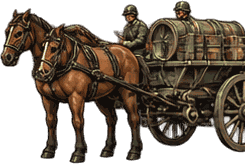
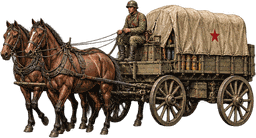
Illustrazioni dalla seconda tavola dell'utente; Panzerwerfer 42 su Maultier
- Sovietici: cavalleria, genio, semicingolato, carro munizioni ippotrainato,
  ambulanza (al posto delle ricolorazioni).
- Lanciarazzi per nazione: Nebelwerfer 41 (Germania) e T34 Calliope (USA).
- Nuovo modello ART-DEU-PZW42 (Panzerwerfer 42 su Sd.Kfz. 4/1, dal 4/1943,
  richiede artiglieria a razzi e semicingolati) e Panzerwerfer-Abteilung;
  illustrazione provvisoria: il Nebelwerfer trainato.
1374/1374 test, validatore, compilazione e prova in Chrome OK.

Claude-Session: https://claude.ai/code/session_014d4HiM3afacYLzYLN6w6N3

diff --git a/src/rules/unitSheet.js b/src/rules/unitSheet.js
@@ -69,7 +69,7 @@ export const EQUIPMENT_GROUP = Object.freeze({
   'VEH-DEU-KRAD': 'veicoli', 'VEH-DEU-SDKFZ222': 'veicoli', 'ART-DEU-FLAK88': 'artiglieria', 'ART-DEU-GEBG36': 'artiglieria', // battaglioni del 19/11/2026
   'INW-USSR-PISTOL-TT33': 'individuali', 'INW-USSR-SMG-PPD': 'individuali', 'INW-USSR-SMG-PPSH41': 'individuali', 'ART-USSR-MOR50': 'mortai', 'ART-USSR-MOR82': 'mortai', 'ART-USSR-MOR120': 'mortai', // battaglioni sovietici (19/11/2026)
   'ART-USSR-GUN76-REGT': 'artiglieria', 'ART-USSR-AA37': 'contraerea', 'ART-USSR-AA76': 'contraerea', 'VEH-USSR-GAZAA': 'veicoli', 'VEH-USSR-ZIS5': 'veicoli', 'VEH-USSR-MOTO': 'veicoli', 'VEH-USSR-BA10': 'veicoli',
-  'ART-USSR-PTRD': 'anticarro', 'ART-USSR-BM13': 'artiglieria', 'ART-DEU-NBW41': 'artiglieria', 'ART-USA-CALLIOPE': 'artiglieria', 'ART-USSR-MOR107': 'mortai', 'ART-USSR-GUN76-GORN': 'artiglieria', // 20/11/2026
+  'ART-USSR-PTRD': 'anticarro', 'ART-USSR-BM13': 'artiglieria', 'ART-DEU-NBW41': 'artiglieria', 'ART-DEU-PZW42': 'artiglieria', 'ART-USA-CALLIOPE': 'artiglieria', 'ART-USSR-MOR107': 'mortai', 'ART-USSR-GUN76-GORN': 'artiglieria', // 20/11/2026
   'TD-DEU-STUG-III': 'corazzati', 'TD-DEU-STUG-III-G': 'corazzati', 'TD-DEU-PZJG-I': 'corazzati', 'TD-DEU-MARDER-III': 'corazzati', 'TD-DEU-JPZ-IV': 'corazzati', 'TD-DEU-HETZER': 'corazzati', 'TD-DEU-JAGDPANTHER': 'corazzati', // cacciacarri
   fucili: 'individuali', pistole: 'individuali', 'INW-DEU-RIFLE-1939': 'individuali', 'INW-DEU-PISTOL-1939': 'individuali',
   'INW-FRA-RIFLE-1939': 'individuali', 'INW-FRA-PISTOL-1939': 'individuali', 'INW-ITA-RIFLE-1940': 'individuali', 'INW-ITA-PISTOL-1940': 'individuali',

diff --git a/tests/retool.test.js b/tests/retool.test.js
@@ -72,10 +72,14 @@ test('IA: una linea ferma (T-26 fuori produzione) passa a un altro carro; dopo u
   assert.equal(again.nations.USSR.facilities[0].recipeId, out.recipeId, `nessun cambio prima di ${RETOOL_COOLDOWN_DAYS} giorni`);
 });
 
-test('illustrazioni: ogni voce ha la variante sovietica e il file esiste', () => {
+test('illustrazioni: varianti per nazione (URSS per i suoi battaglioni, lanciarazzi tedesco e americano) e file esistenti', () => {
   const art = json('assets/unit_illustrations.json');
+  // ogni illustrazione usata da un battaglione sovietico ha la variante URSS; ogni file elencato esiste (20/11/2026: anche DEU e USA per i lanciarazzi)
+  const used = new Set(json('units/modules/modules_ussr.json').modules.map((m) => m.illustration));
   for (const it of art.items) {
-    assert.ok(it.byNation?.USSR, it.id);
-    assert.ok(readFileSync(new URL(`../${art.folder}/${it.byNation.USSR}`, import.meta.url)).length > 1000, it.byNation.USSR);
+    if (used.has(it.id)) assert.ok(it.byNation?.USSR, it.id);
+    for (const file of Object.values(it.byNation ?? {})) assert.ok(readFileSync(new URL(`../${art.folder}/${file}`, import.meta.url)).length > 1000, file);
   }
+  const rk = art.items.find((x) => x.id === 'lanciarazzi');
+  assert.deepEqual(Object.keys(rk.byNation).sort(), ['DEU', 'USA', 'USSR']);
 });
